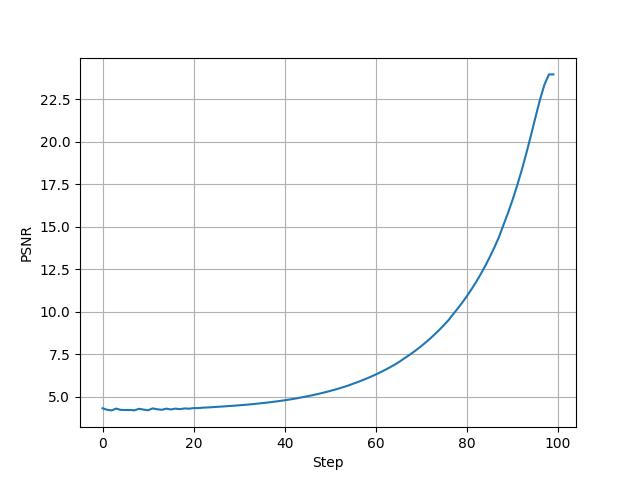
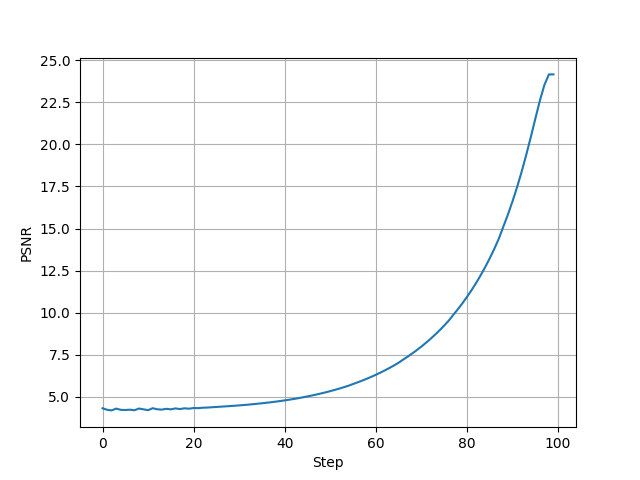
added motion blur

diff --git a/operators.py b/operators.py
@@ -360,6 +360,98 @@ class JPEG2000Operator:
     @torch.no_grad()
     def observe(self, x0, sigma_y=0.0):
         return self.H(x0)
+    
+
+# ----------------------
+# Motion Blur operator as seen in the inverse problem TP
+# ----------------------
+class MotionBlurOperator:
+    def __init__(self, kernel, image_shape, device="cpu"):
+        """
+        kernel:      torch.Tensor of shape (m, n), e.g. (25,25) AS in the tp
+        image_shape: (B, C, H, W)
+        """
+        self.type = "linear"
+        self.image_shape = image_shape
+        self.n = int(np.prod(image_shape))
+        self.m = self.n
+        self.device = device
+
+        B, C, H, W = image_shape
+        self.B = B
+        self.C = C
+        self.Himg = H
+        self.Wimg = W
+
+        kernel = kernel.to(device=device, dtype=torch.float32)
+        kernel = kernel / kernel.sum()
+
+        self.kernel_small = kernel
+        self.kernel_full = self._embed_kernel(kernel, H, W)
+        self.fk = torch.fft.fft2(self.kernel_full)          
+        self.fk_conj = torch.conj(self.fk)
+
+    def _embed_kernel(self, kernel, H, W):
+        """
+        Put the small PSF in the top-left corner of an HxW array,
+        then roll so that its center is at (0,0).
+        """
+        m, n = kernel.shape
+        k = torch.zeros((H, W), device=kernel.device, dtype=kernel.dtype)
+        k[:m, :n] = kernel
+        k = torch.roll(k, shifts=(-m // 2, -n // 2), dims=(0, 1))
+        return k
+
+    def flatten(self, x):
+        return x.view(x.shape[0], -1)
+
+    def unflatten(self, x):
+        return x.view(x.shape[0], *self.image_shape[1:])
+
+    def H(self, x):
+        """
+        Circular convolution by FFT.
+        x: (B,C,H,W)
+        """
+        Xf = torch.fft.fft2(x, dim=(-2, -1))
+        Yf = Xf * self.fk[None, None, :, :]
+        y = torch.fft.ifft2(Yf, dim=(-2, -1)).real
+        return y
+
+    def Ht(self, x):
+        """
+        Adjoint operator.
+        """
+        Xf = torch.fft.fft2(x, dim=(-2, -1))
+        Yf = Xf * self.fk_conj[None, None, :, :]
+        y = torch.fft.ifft2(Yf, dim=(-2, -1)).real
+        return y
+
+    def H_pinv(self, y, eps=1e-3):
+        """
+        Stabilized inverse filter.
+        """
+        Yf = torch.fft.fft2(y, dim=(-2, -1))
+        Xf = Yf / (self.fk[None, None, :, :] + eps)
+        x = torch.fft.ifft2(Xf, dim=(-2, -1)).real
+        return x
+
+    def wiener(self, y, lam=1e-2):
+        """
+        More stable than plain inverse filtering.
+        """
+        Yf = torch.fft.fft2(y, dim=(-2, -1))
+        denom = (self.fk.abs() ** 2 + lam)[None, None, :, :]
+        Xf = self.fk_conj[None, None, :, :] * Yf / denom
+        x = torch.fft.ifft2(Xf, dim=(-2, -1)).real
+        return x
+
+    @torch.no_grad()
+    def observe(self, x0, sigma_y=0.0):
+        y = self.H(x0)
+        if sigma_y > 0:
+            y = y + sigma_y * torch.randn_like(y)
+        return y
 
 # -----------------
 # Operator Chain

diff --git a/pseudo_inverse.py b/pseudo_inverse.py
@@ -49,6 +49,8 @@ def run(args):
     x0 = im2tensor(plt.imread("ffhq256-1k-validation/" + str(idx).zfill(5) + ".png")).to(device)
     imgshape = x0.shape
 
+    kernel = torch.tensor(np.loadtxt('kernels/kernel8.txt')).to(device)
+
     operator_mask = MaskOperator(
         image_shape=imgshape,
         measurement_dim=20,
@@ -67,8 +69,14 @@ def run(args):
         device=device
         )
     
+    operator_motion_blur = MotionBlurOperator(
+        kernel=kernel,
+        image_shape=imgshape,
+        device = device
+    )
+    
 
-    list_operators = list([operator_jpeg, operator_mask, operator_super_res])
+    list_operators = list([operator_jpeg, operator_mask, operator_motion_blur])
     operator = OperatorChain(list_operators)
 
     sigma_noise = diffusion_config.get("sigma_y", 0.01)
